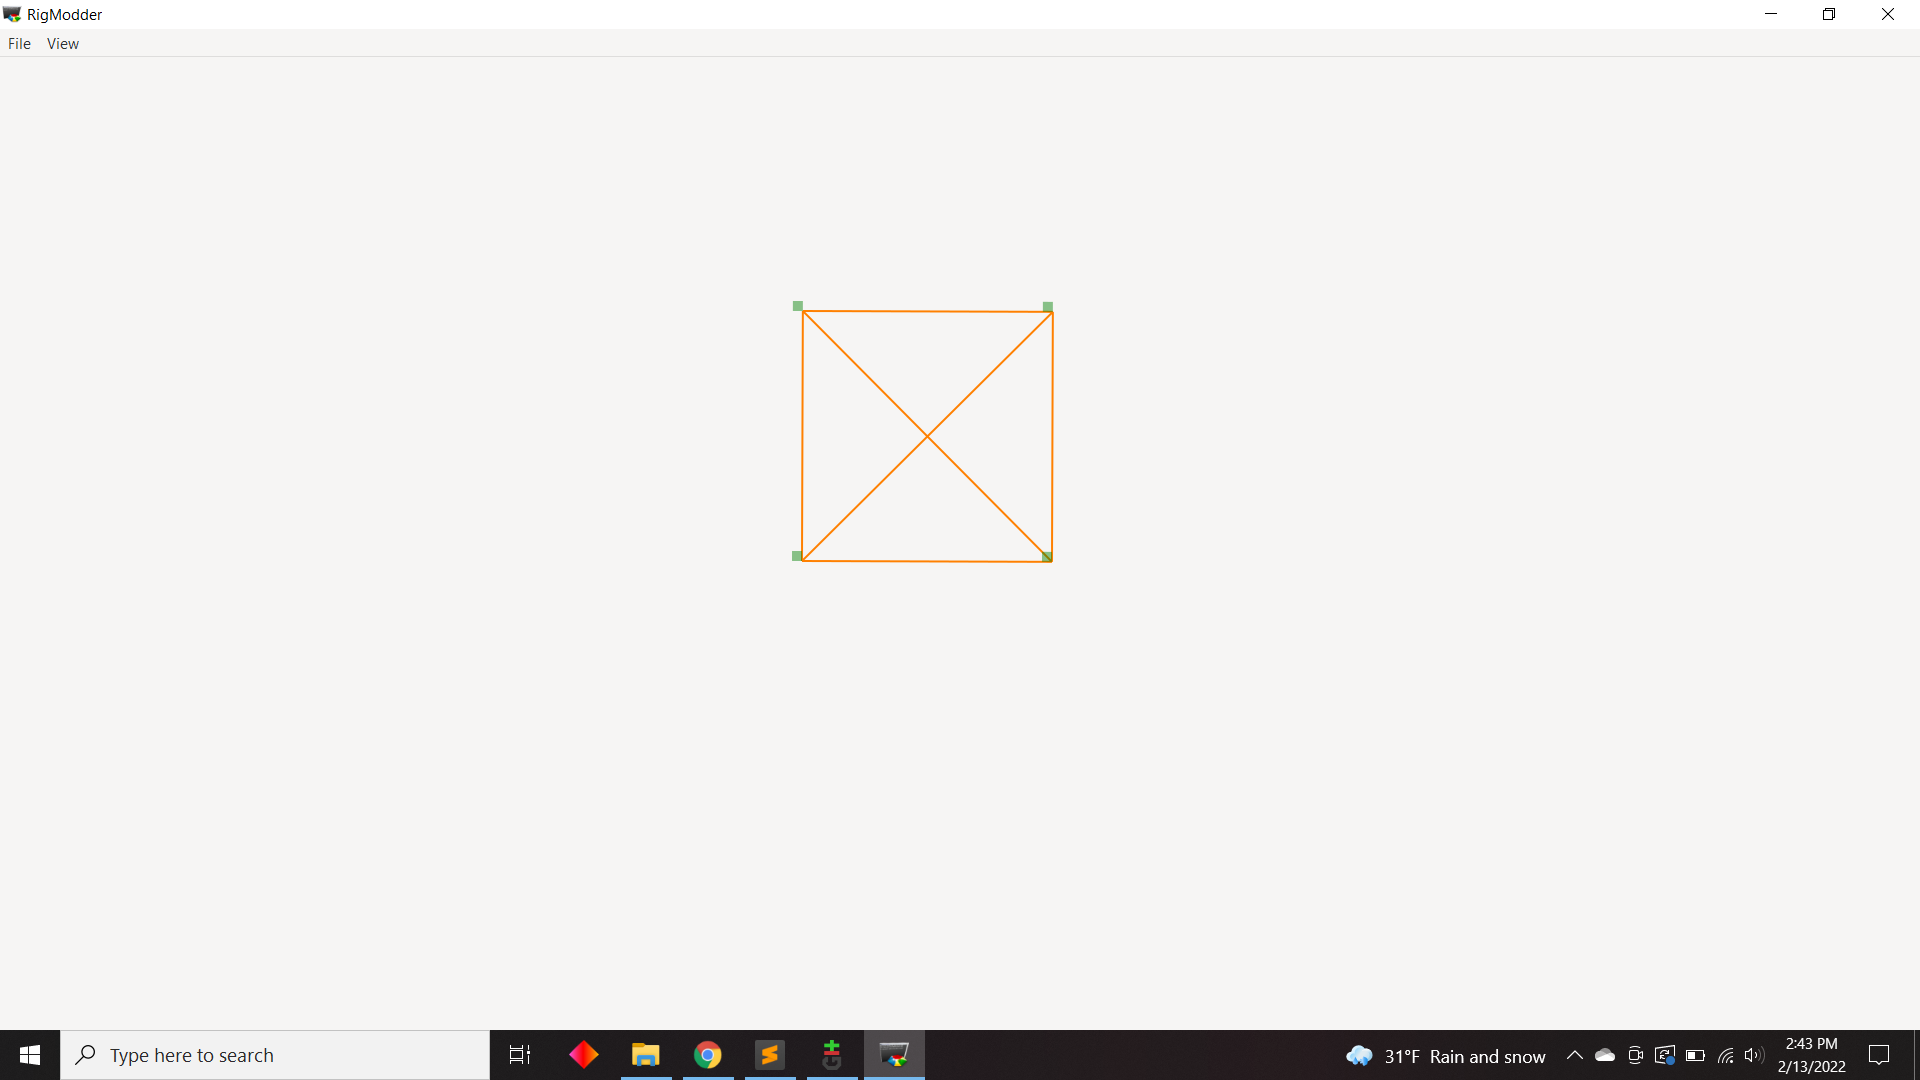
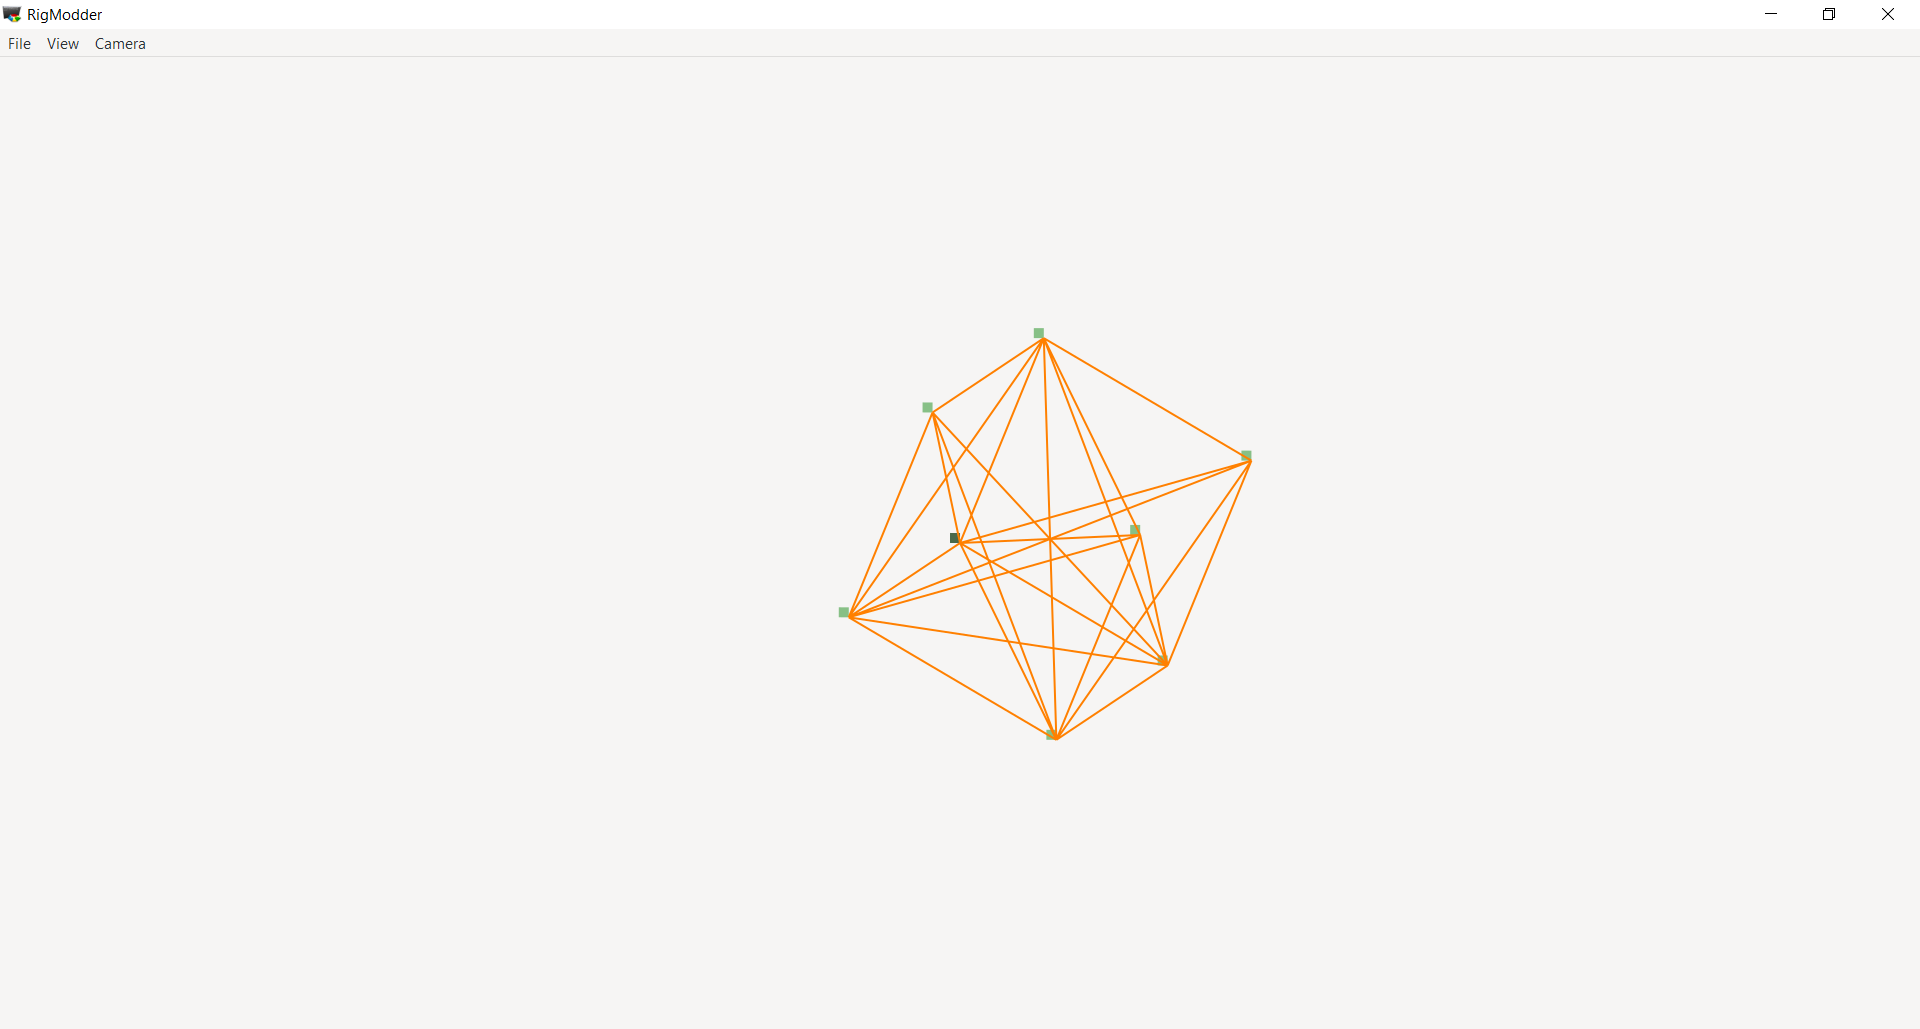
Revise README to present the replacement of 2d projection to 3d perspective projection.

diff --git a/README.md b/README.md
@@ -3,11 +3,14 @@ For Rigs of Rods, it edits and maybe visualizes objects attached to nodes. Such 
 
 ### App Preview
 
-- With a sample box that comes with this repo:
+- With a sample box that comes with this repo *now with actual 3d perspective projection*:
 ![main_app_window_1](./rm_screenshots/app_preview.png)
 
-- With actual vehicle:
+- ~~With actual vehicle~~:
 ![main_app_window_2](./rm_screenshots/app_preview_2.png)
+
+- With an actual vehicle that can *now be rendered in 3d!*
+![main_app_window_3](./rm_screenshots/app_preview_3.png)
 
 ### Please Note:
 This software is still under development and I will not actually release it or put it into beta just yet. As this is an okay functioning program, you are more than welcome to test it out.
@@ -30,18 +33,10 @@ What you need to do by steps:
 	- On the command line via `cmd` or `bash`, type in `ruby viewer.rb` to execute the app.
 
 ### Known Bugs and Perfromance Issues
-**Please note that I have not been tought many algorithms for mouse movement within the structure, performance optimization and somewhat others. As these issues will mainly relate to these topics.** As you know, I've tought myself basic code via videos and websites.
+**Please note that I have not been tought many algorithms for ~~mouse movement within the structure~~ (Already did this on my own), performance optimization and somewhat others. As these issues will mainly relate to these topics.** As you know, I've tought myself basic code via videos and websites.
 
 - Takes a minute or so to load after pressing the open button on the file selector which is shown here:
 ![the_file_chooser](./rm_screenshots/file_loader.png)
-
-- Dragging the node/beam structure on the app can be difficult.
-	- This can be when hold clicking, it takes it to the right path of where the cursor is coming from. *Although,* it does not recognize where the cursor is located exactly. Meaning it could be anyhwere and when clicked, it will directly come to where the cursor actually is. **For example:** The structure is on the left side of the canvas, when the cursor is on the right, if its clicked there, the structure will go right to where the cursor is.
-
-- The structure has an issue with centering to the interface
-	- The graphics library being used in this software, known as "Cairo", only recognizes translation for the whole sketch. When I programmed something for the nodes and beams themselves, it worsened perfromance of the application. Using its built in translation was the only key to make it better.
-	- The graphics library being used in this software, known as "Cairo", only recognizes translation for the whole sketch. When I programmed something for the nodes and beams themselves, it worsened perfromance of the application. Using its built in translation was the only key to make it better.
-	- **UPDATE: I figured out a way to make it render using 3d projection, Will use this time in this project to make that work first.**
 
 **This is all the issues I can think of as of now. If you find more, let me know on Discord at shinymodman#0114.**
 
@@ -50,9 +45,11 @@ The features of this software I'm thinking about implementing are the following:
 
 - The features currently being worked on:
 	1. ~~Shocks~~ (Finished this one)
+	1. ~~**Visual render in 3D (UPDATE)** (Finished this one) ~~
+	**Note about 2d perspective selections**
+	I have to remove the camera menu that selects the 2d perspective projections due to a problem with the GTK signals handling some instance variables based off the selections. (In other words, cant find an idea for an algorithm to make this feature work.) *BUT,* I may put them back if I or anyone else in the repo comes up with an idea to fix or put up an algorithm for this.
 	1. Interfaces for better sight of the truck file. 
-	1. ** AND making visual render in 3D (UPDATE)**
-		1. **NOTE: I figured out a way to make it render using 3d projection, Will use this time in this project to make that work first.**
+	**Now, I can work on this feature!** 
 
 **UPDATE**
 - What will be next thing to work on (**In Order**):
